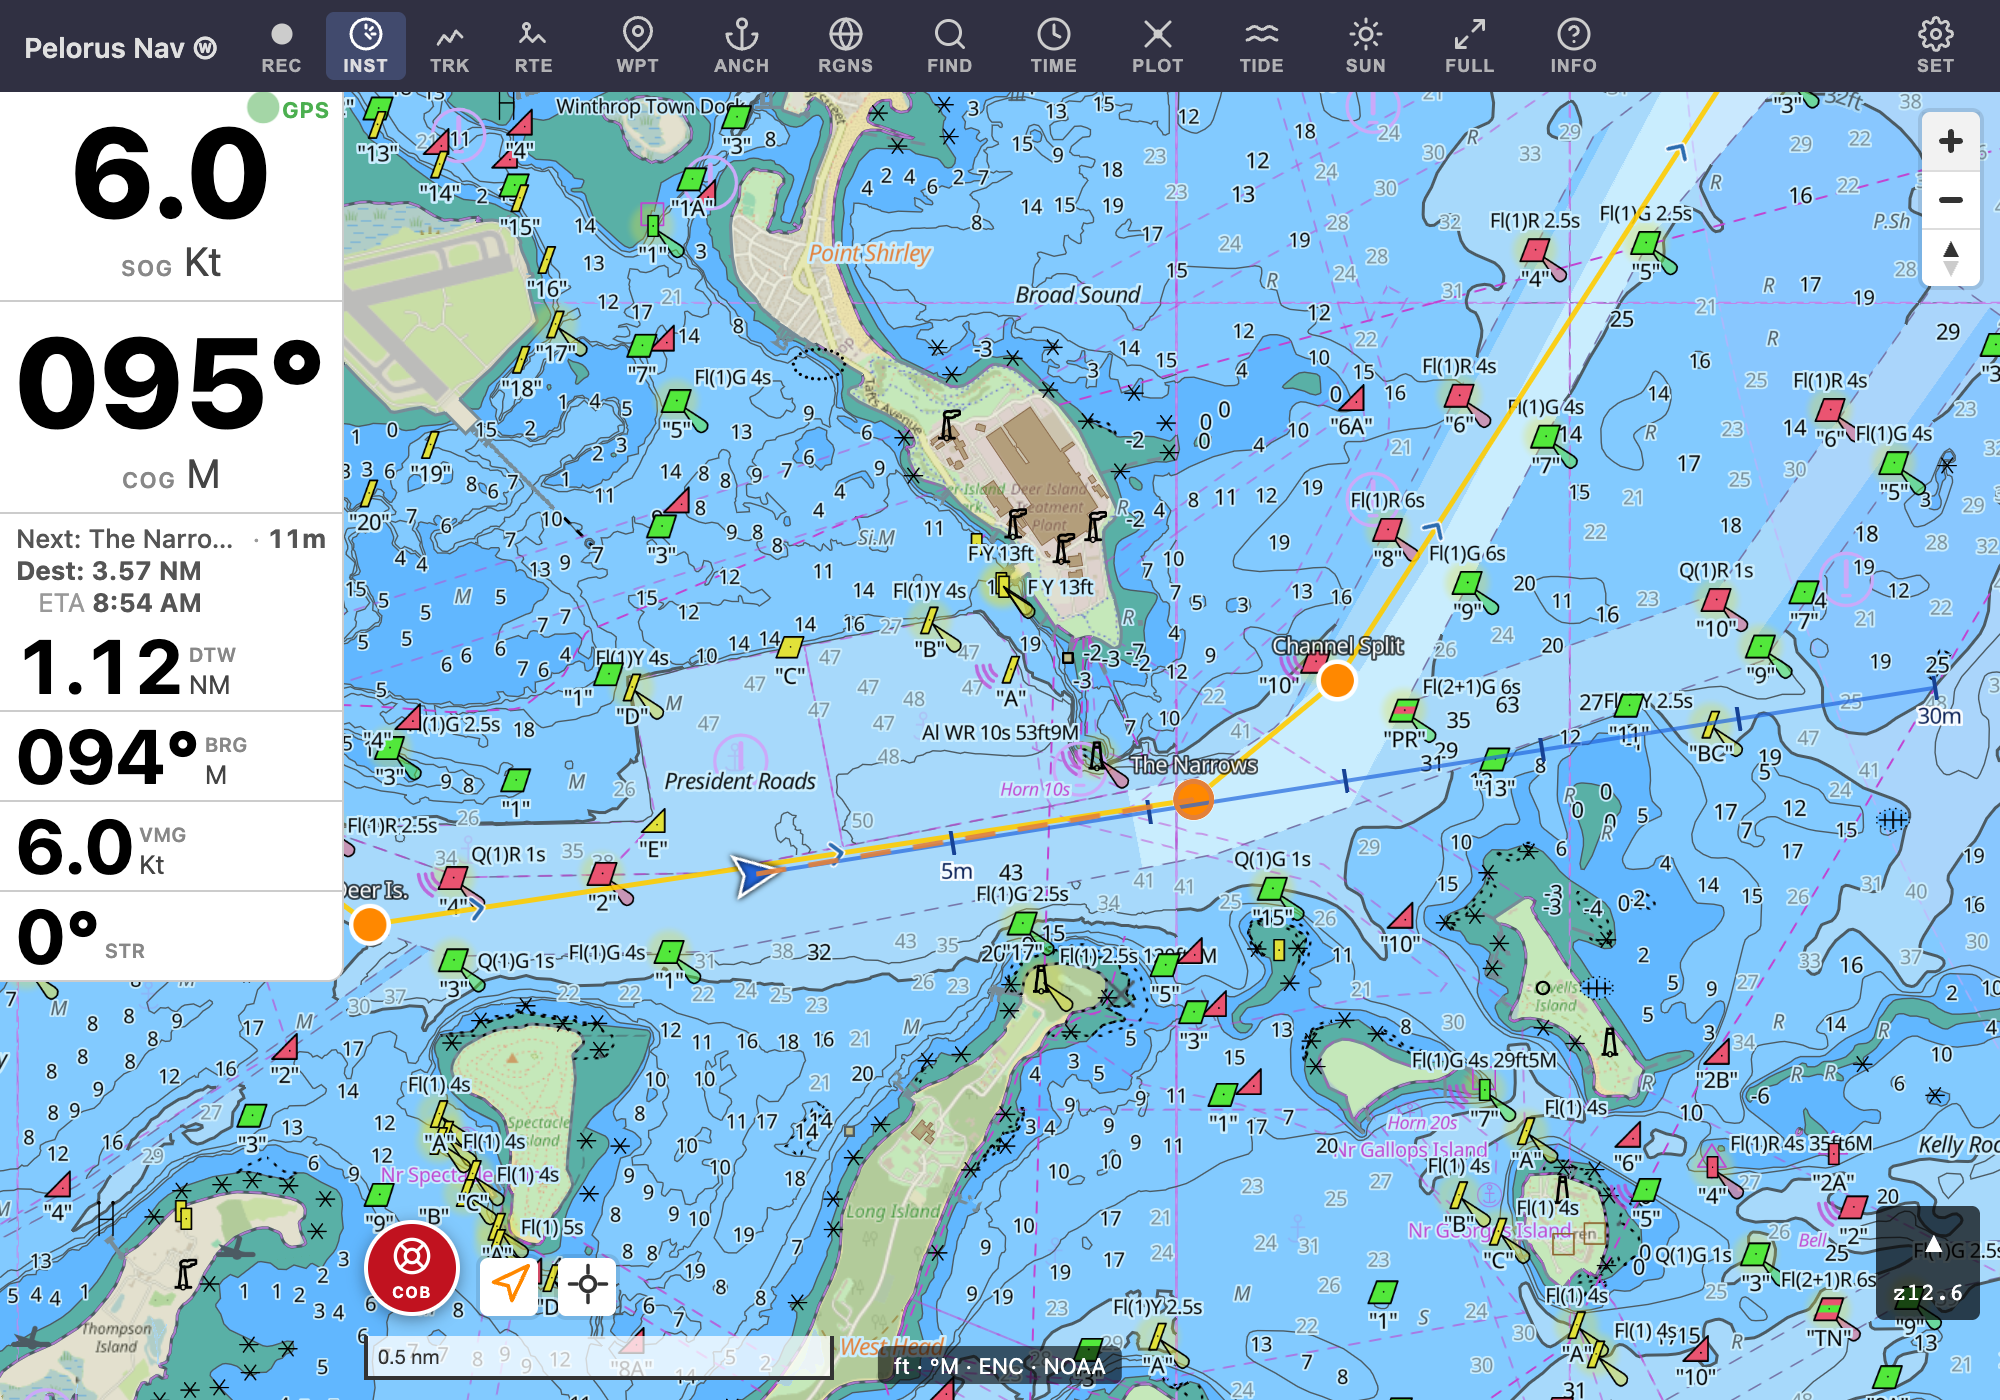
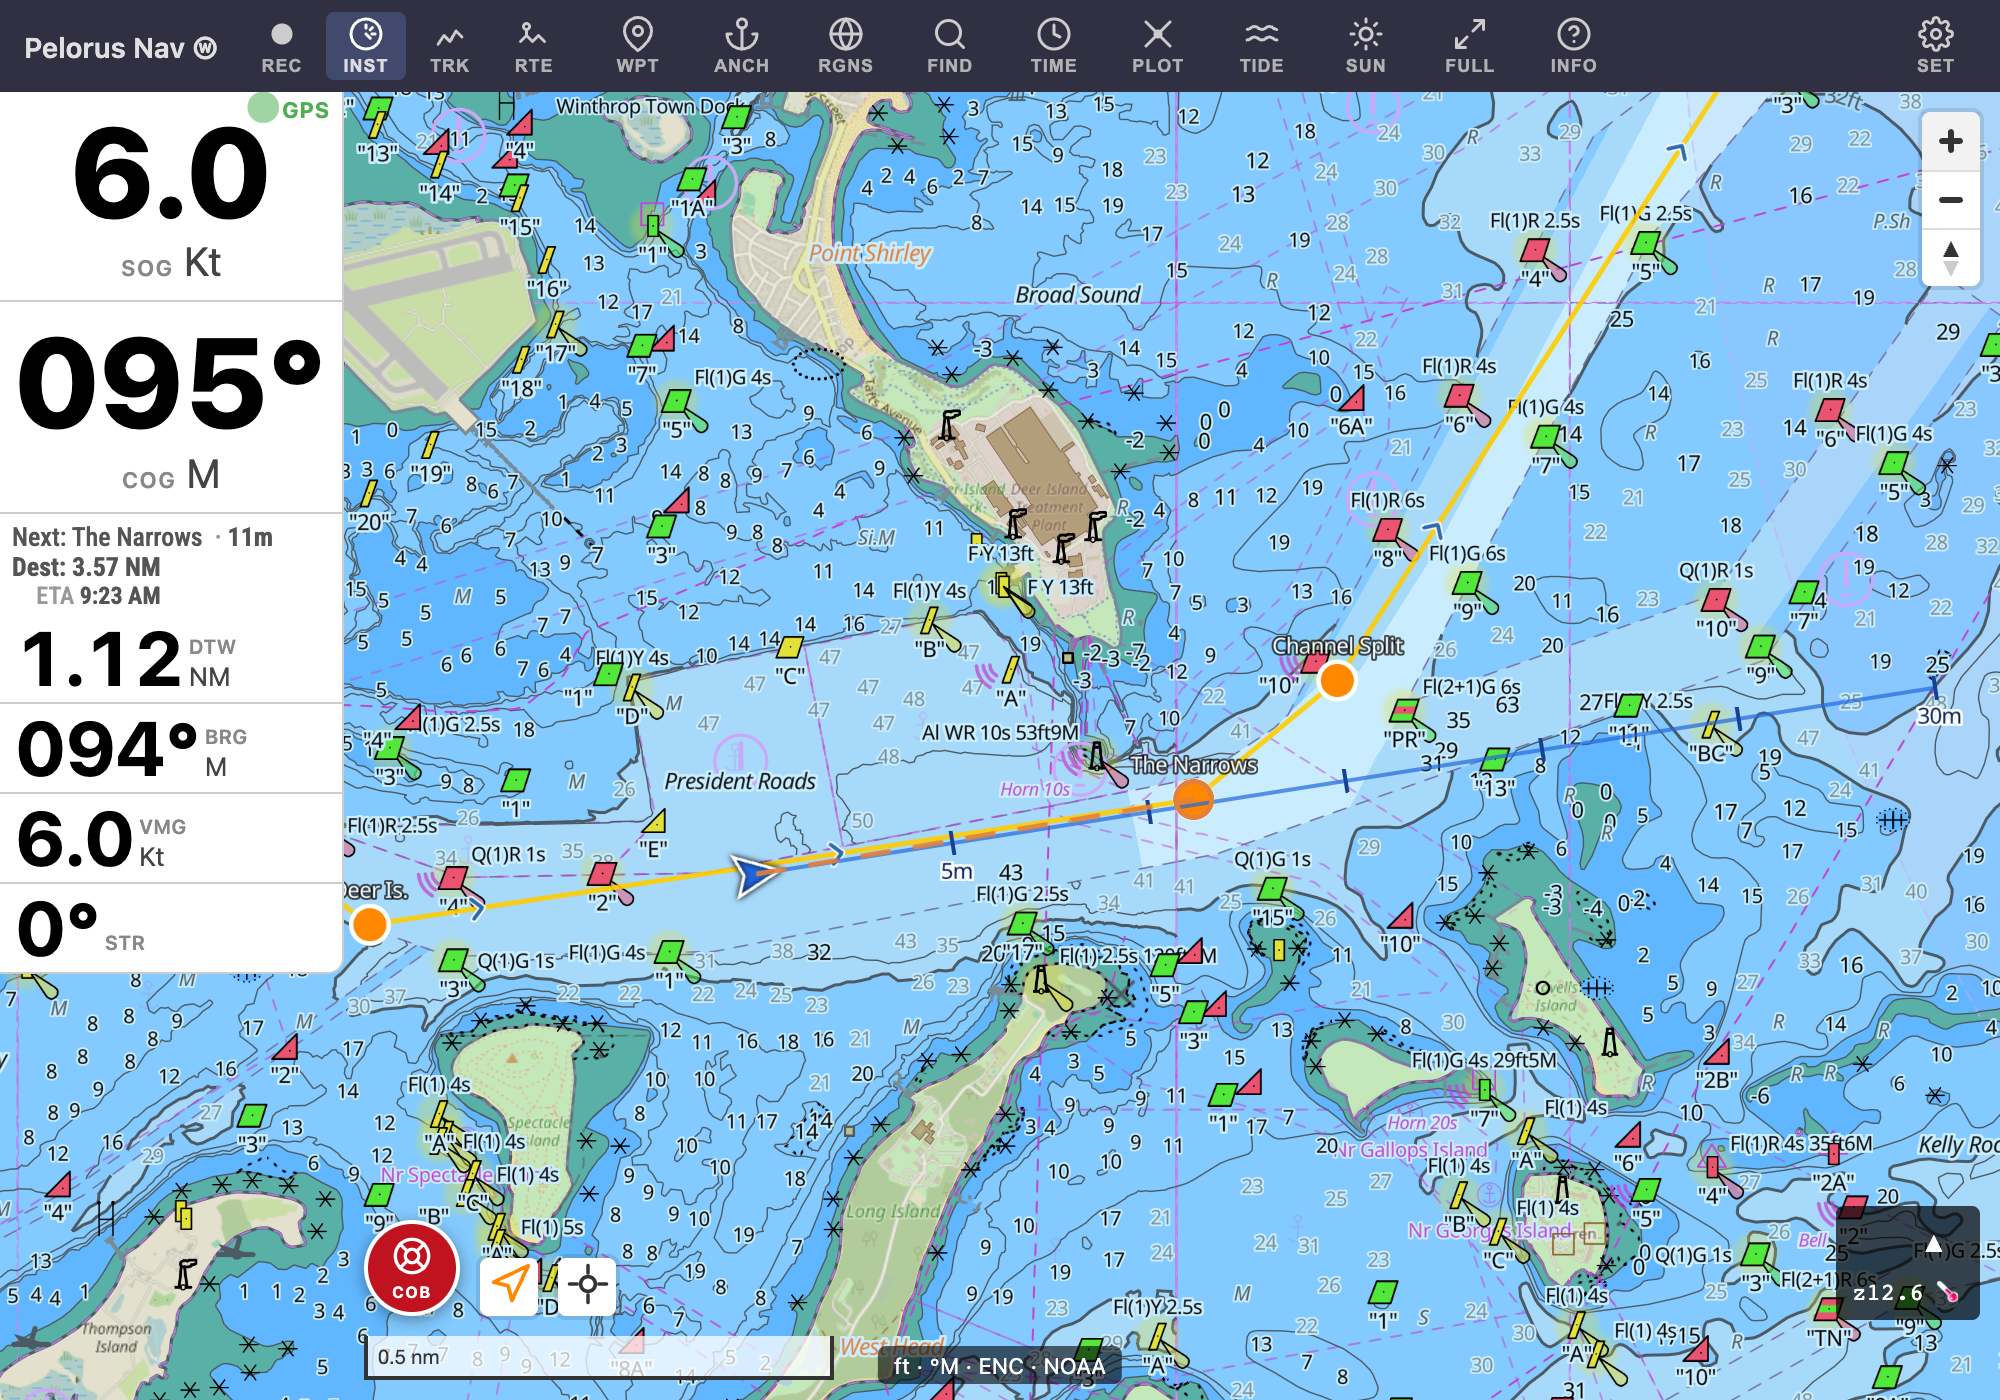
fix(ui): set the nav caption in a bundled condensed face
The caption strip ("Next: name · time", "Dest: distance / arrival") must
fit its widest texts in a 130px side column and a 260px top-bar group,
and CI's Linux system font was wider than macOS's. Roboto Condensed
(latin subset, 500 and 700, ~42KB, precached with the app) fits with
room to spare and renders alike on every platform, so the top-bar caption
returns to a fixed 14px.

Claude-Session: https://claude.ai/code/session_01HDFZVhDtuheXzko3u3n2hZ

Changed region(s): [[0.0, 0.3686, 0.186, 0.7064], [0.899, 0.86, 0.961, 0.9521]]

diff --git a/src/style.css b/src/style.css
@@ -1944,12 +1944,15 @@ body {
    important than the numbers but worth showing. One line: the name gives
    way (ellipsis) so a longer name or time can never change the strip's
    height and shift everything below it. The landscape layouts fix their
-   own line counts the same way. */
+   own line counts the same way. A bundled condensed face: it fits a
+   waypoint name, time, distance and arrival where the system font would
+   not, and renders alike on every platform. */
 .instrument-next-wp {
   display: flex;
   justify-content: space-between;
   gap: 12px;
   padding: 5px 16px 3px;
+  font-family: "Roboto Condensed", system-ui, sans-serif;
   font-size: 16px;
   font-weight: 500;
   color: #555;
@@ -4491,7 +4494,7 @@ body {
     flex-wrap: wrap;
     gap: 0;
     padding: 4px 10px 2px;
-    font-size: clamp(12px, 1.8vw, 14px);
+    font-size: 14px;
   }
 
   /* Always two lines: the name (kept clear of the corner GPS badge, whose

diff --git a/src/main.ts b/src/main.ts
@@ -11,6 +11,9 @@ import { describeBacklogRecovery } from "./map/backlog-notice";
 import { playWaypointChime } from "./navigation/waypoint-chime";
 import { BackgroundGPS } from "./plugins/BackgroundGPS";
 import "maplibre-gl/dist/maplibre-gl.css";
+// Latin subset only: the caption strip above the nav instruments.
+import "@fontsource/roboto-condensed/latin-500.css";
+import "@fontsource/roboto-condensed/latin-700.css";
 import { Protocol } from "pmtiles";
 import "./style.css";
 import { AnchorBadge } from "./anchor/AnchorBadge";
